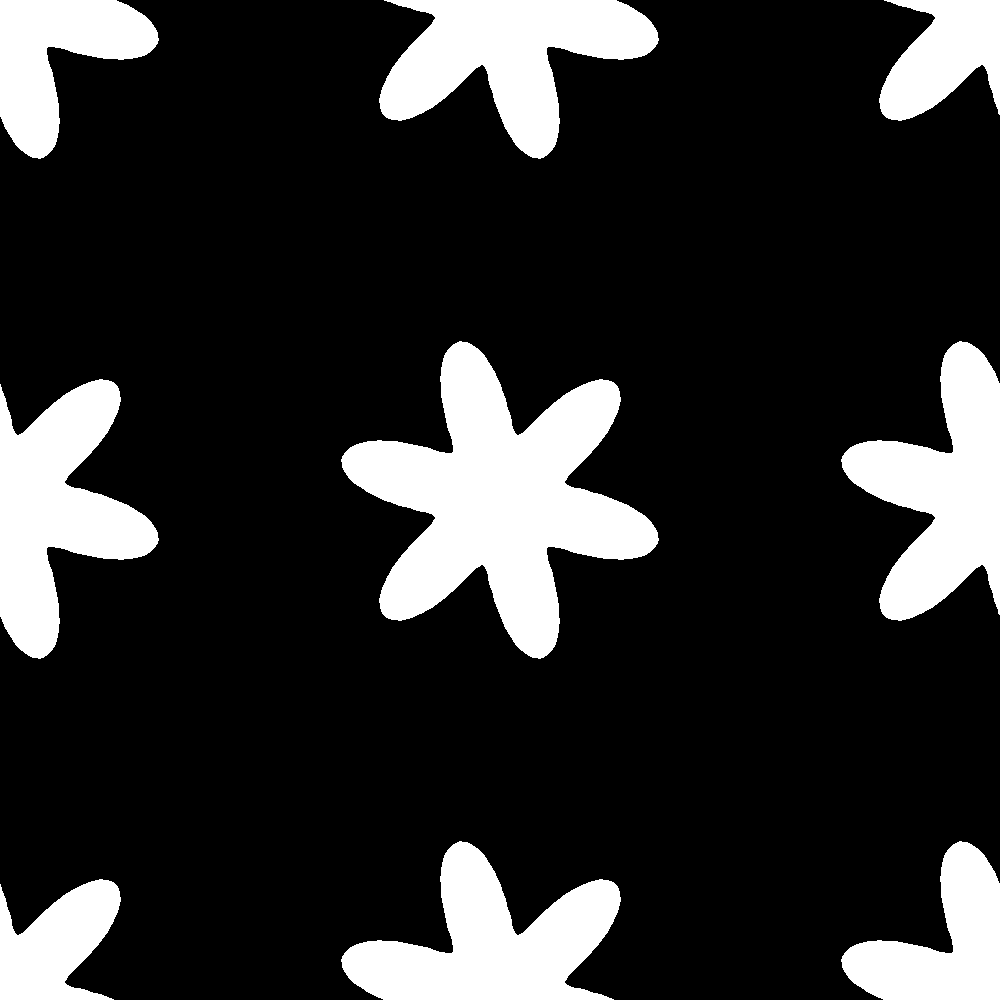
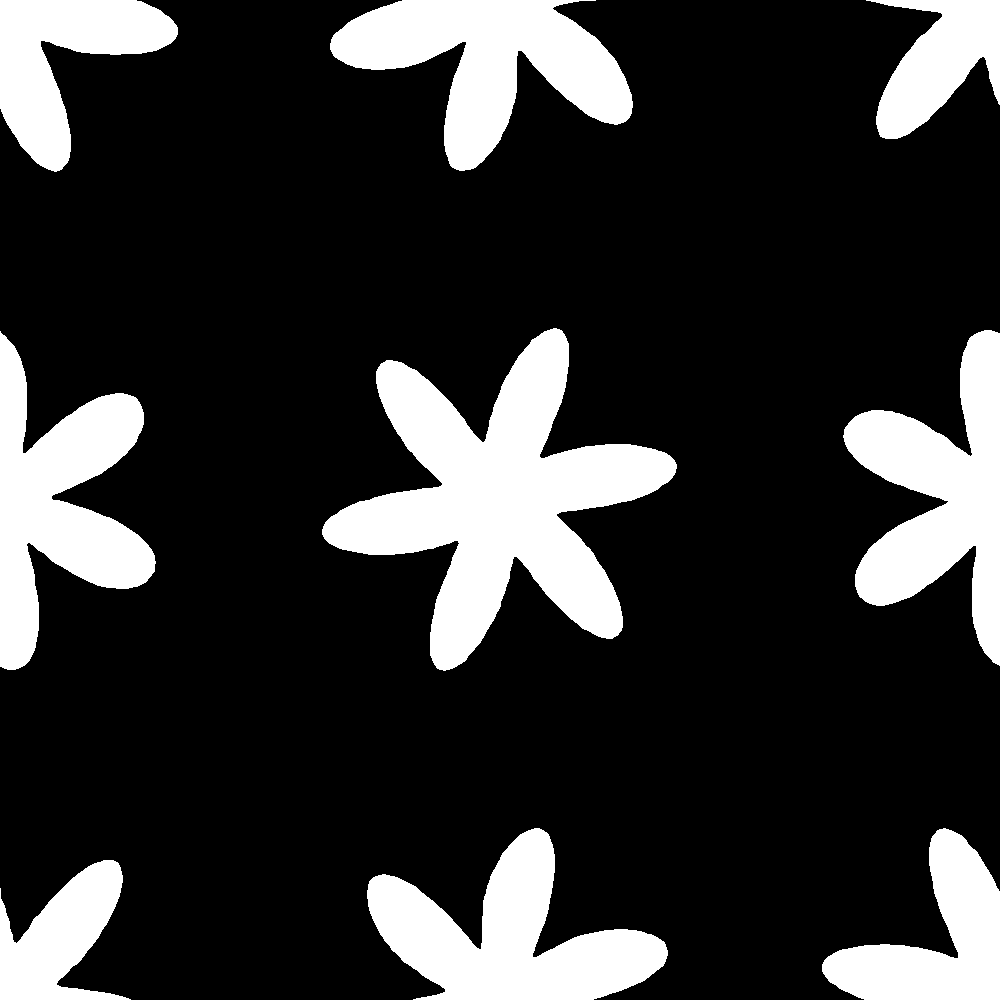
Add functionality to vary the aggregation radius of the mean tree LAI used to derive fuel load

diff --git a/source/grid.h b/source/grid.h
@@ -99,6 +99,7 @@ public:
 		if (is_sapling(tree, cell_halfdiagonal_sqrt))
 			add_LAI_of_tree_sapling(tree, cell_area);
 		else LAI += tree->LAI;
+		update_grass_LAI(LAI);
 	}
 	void remove_tree(Tree* tree, float cell_area = 0, float cell_halfdiagonal_sqrt = 0) {
 		help::remove_from_vec(&trees, tree->id);
@@ -338,11 +339,12 @@ public:
 class Grid {
 public:
 	Grid() = default;
-	Grid(int _width, float _cell_width, float _minimum_patch_size) {
+	Grid(int _width, float _cell_width, float _minimum_patch_size, float _LAI_aggregation_radius) {
 		printf("\nInitializing grid with width %i and cell width %f.\n", _width, _cell_width);
 		width = _width;
 		cell_width = _cell_width;
 		cell_width_inv = 1.0f / cell_width;
+		LAI_aggregation_radius = _LAI_aggregation_radius;
 		cell_half_width = cell_width * 0.5f;
 		width_r = (float)width * cell_width;
 		no_cells = width * width;
@@ -358,7 +360,7 @@ public:
 		cell_area_half = cell_area * 0.5f;	
 		minimum_patch_size = _minimum_patch_size;
 	}
-	Grid(int _width, float _cell_width) : Grid(_width, _cell_width, 0) {}
+	Grid(int _width, float _cell_width) : Grid(_width, _cell_width, 0, 0) {}
 	void init_patch_memberships() {
 		patch_memberships = make_shared<int[]>(no_cells);
 		for (int i = 0; i < no_cells; i++) {
@@ -463,7 +465,7 @@ public:
 	}
 	void redo_state_assignment() {
 		for (int i = 0; i < no_cells; i++) {
-			distribution[i].state = is_forest(distribution[i].get_LAI());
+			distribution[i].state = is_forest(distribution[i].get_fuel_load());
 		}
 	}
 	pair<int, int> idx_2_pos(int idx) {
@@ -565,6 +567,33 @@ public:
 		return LAI_sum;
 	}
 	float get_tree_LAI_of_local_neighborhood(Cell* cell, bool debug=false) {
+		if (LAI_aggregation_radius > 0) {
+			// Use a circular neighborhood with specified radius.
+			float radius = LAI_aggregation_radius;
+			float LAI_sum = 0;
+			int no_cells_in_radius = 0;
+			int min_x = (int)(cell->pos.first - radius);
+			int max_x = (int)(cell->pos.first + radius);
+			int min_y = (int)(cell->pos.second - radius);
+			int max_y = (int)(cell->pos.second + radius);
+			pair<float, float> cell_real_pos = get_real_cell_position(cell);
+			for (int x = min_x; x <= max_x; x++) {
+				for (int y = min_y; y <= max_y; y++) {
+					pair<int, int> neighbor_pos = pair<int, int>(x, y);
+					cap(neighbor_pos);
+					pair<float, float> neighbor_real_pos = get_real_cell_position(get_cell_at_position(neighbor_pos));
+					float dist = help::get_dist(pair<float, float>(cell->pos.first, cell->pos.second), neighbor_pos);
+					if (dist <= radius) {
+						Cell* neighbor = get_cell_at_position(pair<int, int>(x, y));
+						LAI_sum += neighbor->get_LAI();
+						no_cells_in_radius++;
+					}
+				}
+			}
+			if (no_cells_in_radius == 0) return cell->get_LAI();
+			return LAI_sum / (float)no_cells_in_radius;
+		}
+
 		float LAI = get_cumulative_onering_LAI_for_cell(cell);
 		LAI += cell->get_LAI();
 		LAI /= 9.0f; // Get the average LAI of the cell and its neighbors.
@@ -584,12 +613,12 @@ public:
 		return LAI;
 		//return cell->get_LAI();
 	}
-	bool is_forest(float LAI) {
-		return LAI > 1.0f;
+	bool is_forest(float fuel_load) {
+		return fuel_load < 0.5f;
 	}
 	bool is_forest(int x, int y) {
 		Cell* cell = get_cell_at_position(pair<int, int>(x, y));
-		return is_forest(cell->get_LAI());
+		return is_forest(cell->get_fuel_load());
 	}
 	void update_grass_LAI(Cell* cell) {
 		float tree_LAI_local_neighborhood = get_tree_LAI_of_local_neighborhood(cell);
@@ -613,7 +642,9 @@ public:
 		if (collect > 0) {
 			for (int i = 0; i < no_cells; i++) {
 				if (collect == 1) {
-					if (distribution[i].state == 1) state_distribution[i] = max(99.0f - (distribution[i].get_LAI() * 19.0f), 1);
+					//if (distribution[i].state == 1) state_distribution[i] = max(99.0f - (distribution[i].get_LAI() * 19.0f), 1);
+					state_distribution[i] = max(99.0f - (distribution[i].get_LAI() * 19.0f), 1);
+					if (distribution[i].get_LAI() < 1.0f) state_distribution[i] = 0;
 				}
 				else if (collect == 2) {
 					state_distribution[i] = distribution[i].query_grass_LAI() * 33;
@@ -635,7 +666,7 @@ public:
 		distribution[idx].add_tree(tree);
 
 		// If the cell was not previously classified as forest, check if it should be reclassified now.
-		if (is_forest(distribution[idx].get_LAI())) {
+		if (is_forest(distribution[idx].get_fuel_load())) {
 			if (distribution[idx].state == 0) {
 				// The cell was previously classified as savanna, but is now forest. Update the counters accordingly.
 				no_savanna_cells--;
@@ -1054,6 +1085,7 @@ public:
 	float cell_area_half = 0;
 	float cell_halfdiagonal_sqrt = 0;
 	float minimum_patch_size = 0;
+	float LAI_aggregation_radius = 0;
 	map<int, Patch> forest_patches;
 	map<int, Patch> savanna_patches;
 	shared_ptr<Cell[]> distribution = 0;

diff --git a/source/DBR-sim/visualization.py b/source/DBR-sim/visualization.py
@@ -93,6 +93,10 @@ def get_most_distinct_index(existing_colors, maximum_possible_no_colors, offset)
 
 def get_color_dict(no_values, begin=0.0, end=1.0, distr_type="normal"):
     color_dict = {}
+    black = np.array((0, 0, 0), np.uint8)
+    red = np.array((0, 0, 255), np.uint8)
+    white = np.array((255, 255, 255), np.uint8)
+    savanna_color = np.array((170, 255, 255), np.uint8)
     if distr_type == "normal":
         x_step = (end * no_values - begin * no_values) / no_values
         x_range = [ no_values * begin + x_step * x for x in range(no_values) ]
@@ -109,10 +113,8 @@ def get_color_dict(no_values, begin=0.0, end=1.0, distr_type="normal"):
         x_range = [ no_values * begin + x_step * x for x in range(no_values) ]
         
         color_dict = {i : np.array((round(i * 2.55), round(i * 2.55), round(i * 2.55)), np.uint8) for i in range(100)}
+        color_dict[0] = white
 
-    black = np.array((0, 0, 0), np.uint8)
-    red = np.array((0, 0, 255), np.uint8)
-    savanna_color = np.array((170, 255, 255), np.uint8)
     if distr_type == "recruitment":
         color_dict[0] = black
         color_dict[-5] = black
@@ -160,16 +162,28 @@ def get_image(img, color_dict, width, height="width"):
         new_img = np.zeros((width, height, 3), np.uint8)
         for i in range(width):
             for j in range(height):
+                if i == 62 and j == 62:
+                    print("color in middle of savanna (in 'get_image'):", color_dict[img[i, j]], ". Filling in zero gives:", color_dict[0])
                 new_img[i, j] = color_dict[img[i, j]]
+        
+        print("color after loops: ", new_img[62,62])
         img = new_img.copy()
             
     img = img.astype(np.uint8)
+    print("color after conversion: ", img[62,62])
     
     return img
 
 def get_image_from_grid(grid, collect_states, color_dict, invert=False):
     img = grid.get_distribution(collect_states)
+    if collect_states == 1:
+        print("in tree LAI recovery function...")
+        print("value in middle of savanna:", img[62, 62])
     img = get_image(img, color_dict, grid.width)
+
+    if collect_states == 1:
+        print("color:", img[62, 62])
+
     if invert:
         img = ~img
     return img
@@ -186,7 +200,7 @@ def visualize(grid, image_width=1000, collect_states=True, color_dict=False):
     
     return img
 
-def save_image(img, path, image_width = 1000, interpolation="linear"):
+def save_image(img, path, image_width = 1000, interpolation="none"):
     if interpolation == "linear":
         img_resized = cv2.resize(img, (image_width, image_width), interpolation = cv2.INTER_LINEAR)
     elif interpolation == "none":

diff --git a/source/DBR-sim/app.py b/source/DBR-sim/app.py
@@ -73,6 +73,7 @@ def init(user_args):
     # Initialize dynamics object and state
     print("type:", type(user_args["fire_resistance_params"]))
     print("Initializing dynamics object with args:\n", user_args)
+    print("LAI aggregation radius:", args.LAI_aggregation_radius)
     dynamics = cpp.create_dynamics(user_args)
     dynamics.init_state(
         args.grid_width,
@@ -81,7 +82,8 @@ def init(user_args):
         args.growth_rate_multiplier_params[0],
         args.growth_rate_multiplier_params[1],
         args.growth_rate_multiplier_params[2],
-        args.minimum_patch_size
+        args.minimum_patch_size,
+        args.LAI_aggregation_radius
     )
     
     # Set dispersal kernel
@@ -282,9 +284,11 @@ def do_visualizations(dynamics, fire_freq_arrays, fire_no_timesteps, verbose, co
 
     if ("tree_LAI" in visualization_types):
         print("-- Saving tree LAI image...") if verbose else None
+        print("Before tree LAI visualization..")
         tree_LAI_img = vis.get_image_from_grid(dynamics.state.grid, 1, color_dicts["blackwhite"], invert=True)
-        imagepath_fuel = os.path.join(cfg.DATA_OUT_DIR, "image_timeseries/tree_LAI/" + str(dynamics.time) + ".png")
-        vis.save_image(tree_LAI_img, imagepath_fuel, get_max(1000, tree_LAI_img.shape[0]))
+        print("color in middle of savanna:", tree_LAI_img[62, 62])
+        imagepath_tree_LAI = os.path.join(cfg.DATA_OUT_DIR, "image_timeseries/tree_LAI/" + str(dynamics.time) + ".png")
+        vis.save_image(tree_LAI_img, imagepath_tree_LAI, get_max(1000, tree_LAI_img.shape[0]))
 
 
 def updateloop(dynamics, color_dicts, **user_args):

diff --git a/source/DBR-sim/config.py b/source/DBR-sim/config.py
@@ -123,7 +123,8 @@ defaults = {
     "global_rotation_offset": None,
     "enforce_area_constancy": True,
     "colored_patches": False,
-    "minimum_patch_size":30 # Minimum size (in m^2) of patches that are retained when generating initial patterns from images. We assume 78 m^2 since this corresponds to the area of a tree with radius = 5 (the approximate maximum in our model), in line with the 30m resolution of the GFC dataset.
+    "minimum_patch_size":30, # Minimum size (in m^2) of patches that are retained when generating initial patterns from images. We assume 78 m^2 since this corresponds to the area of a tree with radius = 5 (the approximate maximum in our model), in line with the 30m resolution of the GFC dataset.
+    "LAI_aggregation_radius": 5 # Radius (in m) around each cell used to aggregate tree LAI values. 
 }
 
 gui_defaults = {
@@ -890,6 +891,18 @@ _parameter_config = {
                 The minimum size of a patch (in m^2) that is included in calculations of patch perimeters and savanna patch areas.
             """,
             "default": defaults["minimum_patch_size"],
+        }
+    },
+    "LAI_aggregation_radius": {
+        "keys": {
+            "cli": ["--LAI_aggregation_radius", "-laiar"]
+        },
+        "settings": {
+            "type": float,
+            "help": """
+                This radius determines the size of the area around a grid cell x for which the mean LAI is calculated and assigned to x.
+            """,
+            "default": defaults["LAI_aggregation_radius"],
         }
     }
 }

diff --git a/source/dynamics.h b/source/dynamics.h
@@ -29,10 +29,10 @@ public:
 		random_generator = default_random_engine(firefreq_random_seed);
 	};
 	void init_state(int gridsize, float dbh_q1, float dbh_q2, float growth_multiplier_stdev, float growth_multiplier_min, float growth_multiplier_max,
-		float minimum_patch_size) {
+		float minimum_patch_size, float LAI_aggregation_radius) {
 		state = State(
 			gridsize, cell_width, max_dbh, dbh_q1, dbh_q2, seed_bearing_threshold, saturation_threshold, strategy_distribution_params,
-			mutation_rate, growth_multiplier_stdev, growth_multiplier_min, growth_multiplier_max, minimum_patch_size
+			mutation_rate, growth_multiplier_stdev, growth_multiplier_min, growth_multiplier_max, minimum_patch_size, LAI_aggregation_radius
 		);
 		linear_disperser = Disperser();
 		wind_disperser = WindDispersal();
@@ -522,8 +522,8 @@ public:
 	default_random_engine random_generator;
 	ResourceGrid resource_grid;
 	shared_ptr<pair<int, int>[]> neighbor_offsets = 0;
-	map<string, Kernel> global_kernels;
 	map<string, map<string, float>> strategy_distribution_params;
+	map<string, Kernel> global_kernels;
 	Animals animals;
 };
 

diff --git a/source/state.h b/source/state.h
@@ -15,14 +15,14 @@ public:
 		float seed_bearing_threshold, float _saturation_threshold,
 		map<string, map<string, float>>& strategy_distribution_params, float mutation_rate,
 		float growth_multiplier_stdev, float growth_multiplier_min, float growth_multiplier_max,
-		float minimum_patch_size
+		float minimum_patch_size, float LAI_aggregation_radius
 	) {
 		saturation_threshold = _saturation_threshold;
 		population = Population(
 			max_dbh, cell_width, dbh_q1, dbh_q2, strategy_distribution_params, mutation_rate,
 			seed_bearing_threshold, growth_multiplier_stdev, growth_multiplier_min, growth_multiplier_max
 		);
-		grid = Grid(gridsize, cell_width, minimum_patch_size);
+		grid = Grid(gridsize, cell_width, minimum_patch_size, LAI_aggregation_radius);
 	}
 	bool check_grid_for_tree_presence(int tree_id, int verbose = 0) {
 		bool presence = false;

diff --git a/source/global.cpp b/source/global.cpp
@@ -233,7 +233,7 @@ PYBIND11_MODULE(dbr_cpp, module) {
         .def(py::init<>())
         .def(py::init<const int&, const float&, const float&, const float&, const float&,
             const float&, const float&, map<string, map<string, float>>&, const float&,
-            const float&, const float&, const float&, const float&>())
+            const float&, const float&, const float&, const float&, const float&>())
         .def("repopulate_grid", &State::repopulate_grid)
         .def("set_tree_cover", &State::set_tree_cover)
         .def("set_cover_from_image", [](State& state, py::array_t<float>& img, float& override_image_treecover) {
